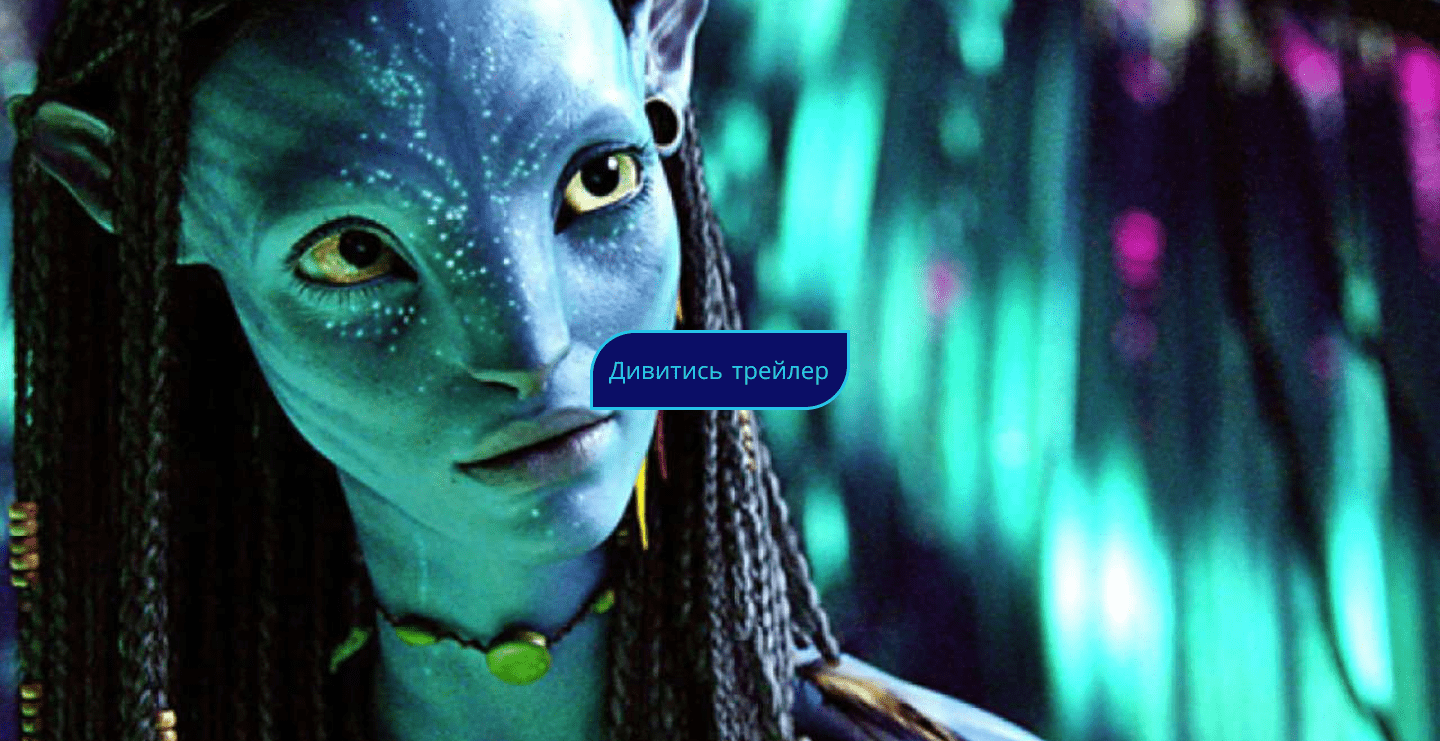
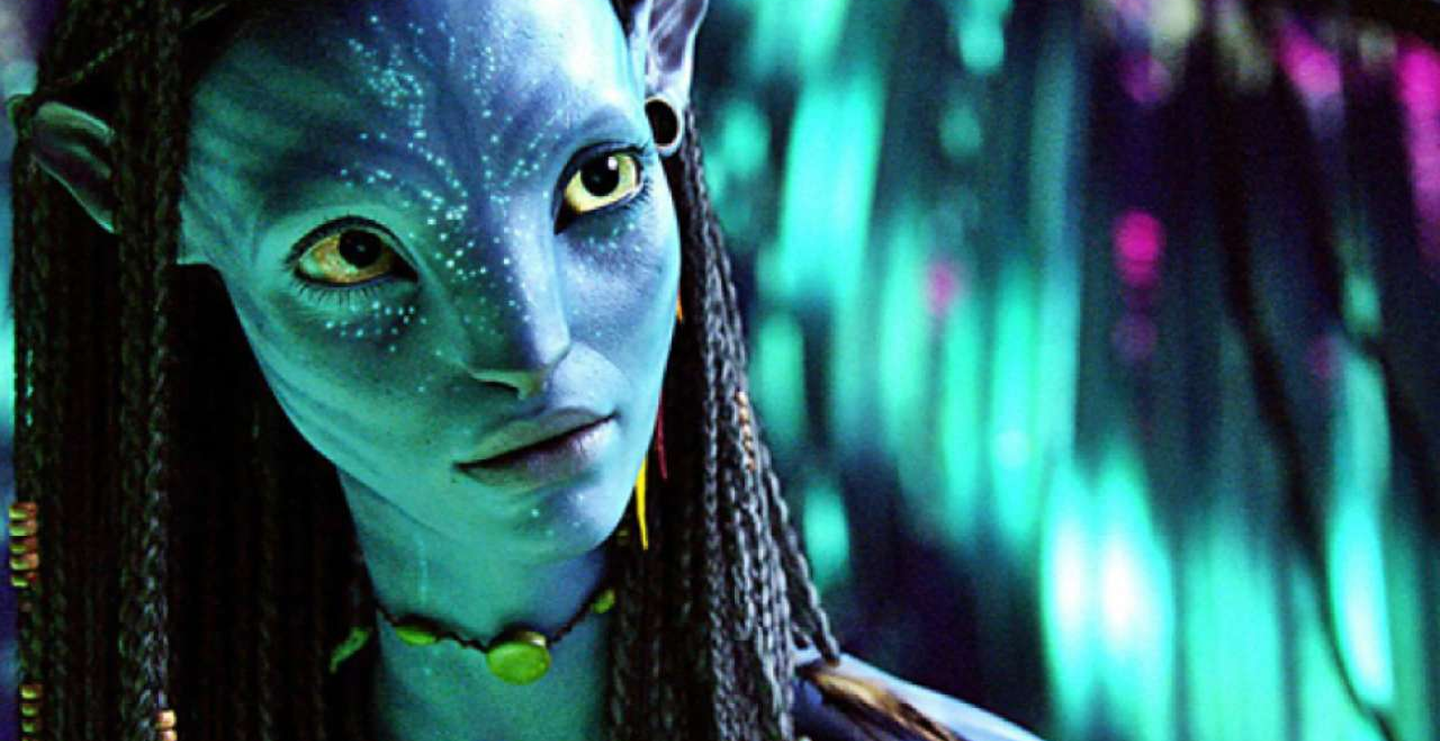
commit

diff --git a/css/styles.css b/css/styles.css
@@ -11,16 +11,18 @@
   background-color: #0b0e66;
   width: 141px;
   height: 41px;
-   border-radius: 35px;
+  border-top-left-radius: 41px;
+  border-bottom-right-radius: 40px;
   margin: 330px, 306px;
 }
 .hero-section-button {
   border-color: #26c7ea;
   color: #26c6ea;
   background-color: #0b0e66;
+   border-top-left-radius: 41px;
+  border-bottom-right-radius: 40px;
   width: 260px;
   height: 80px;
-  border-radius:35px;
   margin: 330px, 306px;
 }
 .container {
@@ -72,7 +74,7 @@ color: #141414;
 font-weight: 300;
 font-size: 20px;
 color: #fff;
-margin-right: 40px;
+margin-right: 36px;
 
 }
 .translations-list-text {
@@ -86,7 +88,7 @@ padding-bottom: 40px;
 padding-top: 40px;
 }
 .footer {
-  background-color: brown;
+  background-color: white;
   background-image: linear-gradient( to top,rgba(43, 74, 97, 0.87), rgba(43, 74, 97, 0.97)), url(../images/footerbackground.png)  ;;
   background-repeat: no-repeat;
   width: 1440px;
@@ -166,9 +168,6 @@ color: #000;
 .hero-section {
   background-color: #ffff;
 }
-.trailer-button {
-  border: none;
-}
 .header-links:hover {
   font-weight: 600px;
   color: #94cfff;
@@ -244,21 +243,45 @@ text-align: justify;
 color: #fff;
 }
 .trailer {
+  background-image: url(../images/trailer.png);
   width: 1440px;
+  height: 741px;
   margin: 0 auto;
-  align-items: center;
+  padding-bottom: 331px;
+  padding-top: 330px;
+  padding-right: 590px;
+  padding-left: 590px;
+}
+.trailer-link {
+ display: inline-block;
+ width: 260px;
+ height: 80px;
+padding-top: 25px;
+padding-left: 20px;
+padding-right: 20px;
+padding-bottom: 20px;
+  background-color: #0A0A64; 
+  color: #00CFFF; 
+  border: 2px solid #00CFFF; 
+  text-decoration: none;
+ font-family: var(--font-family);
+  font-size: 24px;
+  font-weight: 400;
+border-top-left-radius: 41px;
+  border-bottom-right-radius: 40px;
 }
 .footer {
   width: 1440px;
   height: 223px;
-  margin: auto;
+  margin: 0 auto;
   padding-top: 35px;
   padding-bottom: 25px;
-  padding-left: 204px;
 }
 .address-list {
   display: flex;
-  margin-left: 160px;
+  flex-direction: column;
+  margin: 0px;
+  padding: 0px;
 }
 .copyright {
   margin-left: 667px;
@@ -267,17 +290,40 @@ color: #fff;
 .trailer-img {
   margin: 0 auto;
 }
-.bottom-address-text {
+.footer-position {
+  display: flex;
+}
+.address-item1 {
+  background-image: url(../images/footerlines.png) ;
+  background-position: 205px;
+  background-repeat: no-repeat;
+  background-position: center;
+  display: flex;
+  flex-direction: row;
+  justify-content: space-between;
+  width: 665px;
+  height: 24px;
+  background-size: 269px;
+  background-position: 205px;
+}
+.address-item2 {
+  background-image: url(../images/footerlines.png) ;
+  background-position: 205px;
+  background-repeat: no-repeat;
+  background-position: center;
+  display: flex;
+  flex-direction: row;
+  justify-content: space-between;
+  width: 689px;
+  height: 24px;
+  background-size: 269px;
+  background-position: 205px;
+}
+.mail {
   font-family: var(--font-family);
 font-weight: 400;
 font-size: 20px;
 text-align: justify;
 color: #fff;
 }
-.footer-div {
-  width: 219px;
-  margin-left: 15px;
-  margin-right: 15px;
-  margin-bottom: 10px;
-  border-bottom: dashed 3px white;
-}
+

diff --git a/index.html b/index.html
@@ -51,13 +51,13 @@
         </button>
         <ul class="socials-list">
           <li class="socials-list-item">
-            <img class="socials-icon" src="./images/instagram.png" alt="instagram">
+            <a class="socials-link" target="_blank" href="https://www.instagram.com/avatar/"><img class="socials-icon" src="./images/instagram.png" alt="instagram"></a>
           </li>
           <li class="socials-list-item">
-            <img class="socials-icon" src="./images/twitter.png" alt="twitter">
+            <a target="_blank" href="https://x.com/avatarmovie"><img class="socials-icon" src="./images/twitter.png" alt="twitter"></a>
           </li>
           <li class="socials-list-item">
-            <img class="socials-icon" src="./images/youtube.png" alt="youtube">
+            <a target="_blank" href="https://www.youtube.com/watch?v=X8SVkfbt8cs"><img class="socials-icon" src="./images/youtube.png" alt="youtube"></a>
           </li>
         </ul>
         </div>
@@ -71,7 +71,7 @@
       </section>
       <section class="trailer">
         <div class="container">
-          <a target="_blank" class="trailer-link" href="https://www.bing.com/videos/riverview/relatedvideo?q=avatar+trailer&&mid=D869CAE0D86892792CE8D869CAE0D86892792CE8&FORM=VAMGZC"><img class="trailer-img" src="./images/trailer.png" alt="trailer"></a>
+          <a class="trailer-link" target="_blank" class="trailer-link" href="https://www.bing.com/videos/riverview/relatedvideo?q=avatar+trailer&&mid=D869CAE0D86892792CE8D869CAE0D86892792CE8&FORM=VAMGZC">Дивитись трейлер</a>
         </div>
       </section>
       <section class="quote">
@@ -121,25 +121,20 @@
     </main>
       <!-- footer -->
     <footer class="footer">
-      <div class="container footer-positon">
-      <a class="footer-logo" href="/"><img src="./images/logo.png" alt="logo" /></a>
-      <address class="address">
-        <ul class="address-list">
-          <li class="addres-item">
+      <div class="container">
+        <div class="footer-postion"><a class="footer-logo" href="/"><img src="./images/logo.png" alt="logo" /></a>
+          <ul class="address-list">
+          <li class="address-item1">
           <p class="address-text">Q&A E-mail</p>
-            <div class="footer-div"></div>
-          <p class="address-text">avatartwowqa@gmail.com</p>
-      <a class="mail" href="malito:avatartwowqa@gmail.com"></a>
+          <p class="mail">avatartwowqa@gmail.com</p>
     </li>
-      <li class="address-item">
+      <li class="address-item2">
       <p class="address-text">Cooperation E-mail</p>
-      <div class="footer-div"></div>
-<p class="address-text">avatartwowcoop@gmail.com</p>
+      <p class="mail">avatartwowcoop@gmail.com</p>
       </li>
       </ul>
+    </div>
 <small class="copyright">©2023 Avatar: The Way Of Water. All rights reserved</small>
-
-</address>
        </div>
     </footer>
   </body>
